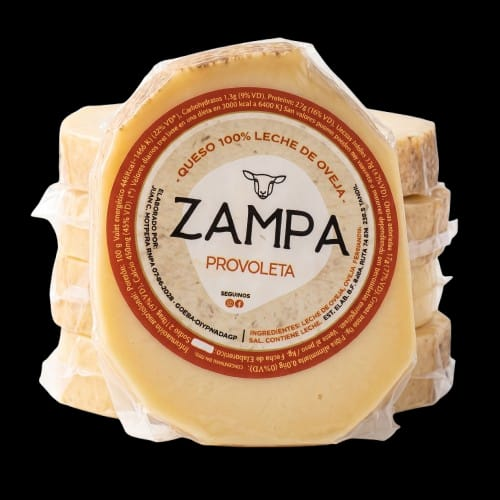
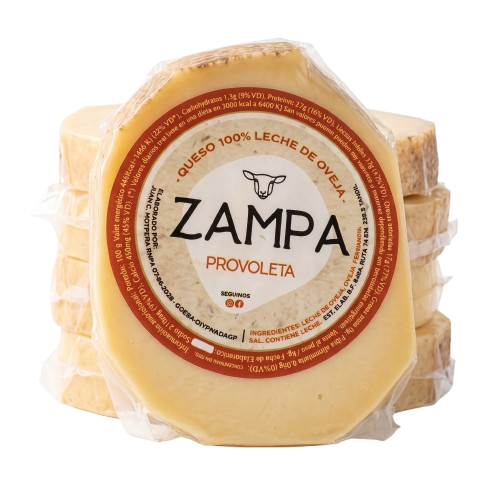
revert: restaurar imagenes PNG originales para conservar transparencias y line-art

diff --git a/scripts/optimize-images.js b/scripts/optimize-images.js
@@ -97,7 +97,7 @@ async function run() {
 
   // Get all files in the directory
   const files = fs.readdirSync(dir);
-  const imageExtensions = ['.jpg', '.jpeg', '.png'];
+  const imageExtensions = ['.jpg', '.jpeg'];
 
   const imagesToProcess = files.filter(file => {
     const ext = path.extname(file).toLowerCase();
